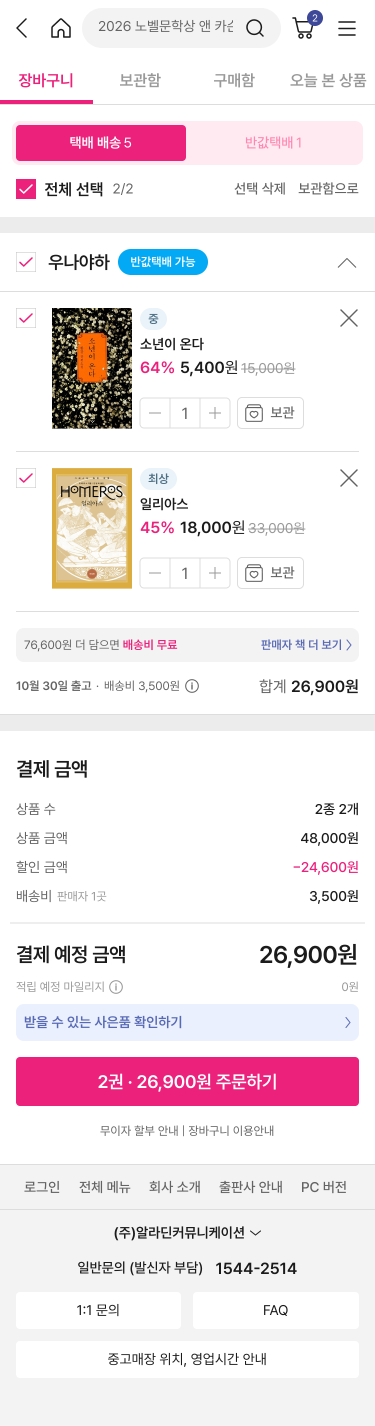
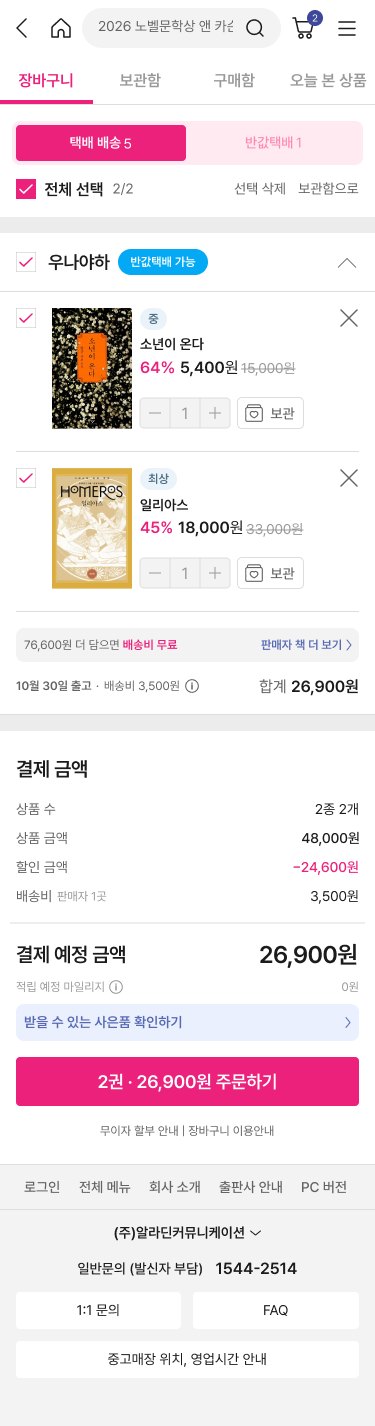
docs: 장바구니 수량을 1로 고정한 리디자인 반영

diff --git a/data.js b/data.js
@@ -275,7 +275,7 @@ const SCREENS = [
   },
   {
     id: "SC-CRT-01", key: "crt", name: "장바구니 · 선택 상품 주문", short: "장바구니",
-    img: "assets/sc-crt.png", w: 375, h: 1426, source: "6091:9045",
+    img: "assets/sc-crt.png", w: 375, h: 1426, source: "6777:8532",
     summary: "담은 상품을 판매자별로 확인하고, 결제 예정 26,900원으로 주문",
     entry: ["장바구니 버튼", "가격 비교·상세의 담기 완료 알림"],
     flow: [
@@ -298,9 +298,10 @@ const SCREENS = [
               fail: ["0개 선택 → “상품을 선택해 주세요” + 주문 버튼을 누를 수 없음"] }] },
       { n: "02", name: "판매자별 상품·수량", fns: ["F-CRT-02"], boxes: [[5, 230, 365, 487]],
         role: "판매자별로 담은 상품과 수량·배송비를 확인하는 영역",
-        show: ["판매자별 묶음", "품질 등급·판매가·수량 조절·배송 조건·합계"],
-        act: ["같은 판매자 상품은 한 묶음 + 배송 조건 함께 표시", "수량 +/− 는 재고 안에서만 바뀜", "상품가·예상 배송비 다시 계산", "재고보다 많은 수량은 적용 안 함"],
-        memo: ["판매자 합계 = 상품 가격 + 배송비", "예) 우나야하: 5,400 + 18,000 + 3,500 = 26,900원", "‘76,600원 더 담으면 배송비 무료’ = 100,000원 기준 (100,000 − 23,400)"],
+        show: ["판매자별 묶음", "품질 등급·판매가·수량·배송 조건·합계", "수량 +/− 는 회색 (누를 수 없음)"],
+        act: ["같은 판매자 상품은 한 묶음 + 배송 조건 함께 표시", "수량은 1로 고정"],
+        memo: ["수량 +/− 를 회색(비활성)으로 바꿈 → 수량 1 고정", "판매자 합계 = 상품 가격 + 배송비", "예) 우나야하: 5,400 + 18,000 + 3,500 = 26,900원", "‘76,600원 더 담으면 배송비 무료’ = 100,000원 기준 (100,000 − 23,400)"],
+        planned: ["수량 +/− 는 재고 안에서만 바뀜", "상품가·예상 배송비 다시 계산", "재고보다 많은 수량은 적용 안 함"],
         p: [{ id: "F-CRT-02", name: "수량 바꾸기",
               when: "수량 +/− 를 누를 때",
               rule: ["판매자별 묶음 유지", "수량이 재고 안인지 확인한 뒤 합계 다시 계산"],
@@ -390,7 +391,8 @@ const LOG = [
   ["2026.11.07", ["가격 비교 보관 아이콘(눌린 모양 + 보관 완료 알림)을 동작하지 않는 것으로 정정 → ‘장바구니·보관·주문’ 기능은 동작하지 않음", "카드 안 보관 아이콘도 ‘장바구니’·‘주문하기’처럼 눌러도 아무 일 없음으로 정리", "전체 흐름 보기의 ‘보관’ 보조 흐름과 시연하기의 보관 아이콘 누를 수 있는 영역 삭제"]],
   ["2026.11.07", ["상품 상세 리뷰 아래 ‘공감 (N)’ 숫자 표시를 없앤 디자인 수정 반영 → ‘댓글 (N)’만 표시, 공감 버튼 누름(눌린 모양)은 그대로", "‘동작하지 않음’의 ‘공감 숫자 바뀌기’는 숫자 표시가 없어져 삭제"]],
   ["2026.11.07", ["상품 상세 화면 캡처를 수정본(5443:10002)으로 교체하고, 높이 3141→3139에 맞춰 요소 박스·시연 영역 위치 조정"]],
-  ["2026.11.07", ["상품 상세 화면 캡처를 리디자인(6777:8531)으로 교체: 카드 최대 혜택가·‘혜택 자세히’, 카드/간편결제 할인·무이자 할부, 배송 유의사항, 품질 등급 전체 보기, 도서별 가격 비교 표가 빠짐 (구현 범위에서 제외)", "빠진 요소의 기획 내용은 회색 ‘원래 기획한 기능’ 칸으로 옮기고, 높이 3139→2803에 맞춰 요소 박스·시연 영역 위치 조정"]]
+  ["2026.11.07", ["상품 상세 화면 캡처를 리디자인(6777:8531)으로 교체: 카드 최대 혜택가·‘혜택 자세히’, 카드/간편결제 할인·무이자 할부, 배송 유의사항, 품질 등급 전체 보기, 도서별 가격 비교 표가 빠짐 (구현 범위에서 제외)", "빠진 요소의 기획 내용은 회색 ‘원래 기획한 기능’ 칸으로 옮기고, 높이 3139→2803에 맞춰 요소 박스·시연 영역 위치 조정"]],
+  ["2026.11.07", ["장바구니 화면 캡처를 리디자인(6777:8532)으로 교체: 수량 +/− 가 회색(비활성)으로 바뀌어 수량 1 고정", "수량을 바꾸는 기획 내용은 회색 ‘원래 기획한 기능’ 칸으로 옮김"]]
 ];
 
 // 요소별 동작 여부 (피그마 프로토타입 연결 + 디자인 메모의 위아래 고정 기준, 2026.11.05 확인)
@@ -420,7 +422,7 @@ const IMPL = {
   "SC-DET-01/05": { works: ["‘공감’ 누름 → 눌린 모양", "ⓘ 누름 → 설명 말풍선, 바깥 누름 → 닫힘"], noop: ["다시 눌러 공감 취소", "‘Thanks to’ 눌러 적립 혜택 주기 (눌린 모양만 바뀜)"] },
   "SC-DET-01/06": { works: ["‘장바구니’ 누름 → 담기 완료 알림 → ‘장바구니 보기’ → [장바구니] 페이지로 이동", "구매 바가 화면 맨 아래에 붙어 있음"], noop: ["‘주문하기’ 눌러 주문 (눌린 모양만 바뀜)"] },
   "SC-CRT-01/01": { works: ["스크롤해도 위쪽 탭·배송 방식·전체 선택 줄이 붙어 있음"], noop: ["체크박스·‘전체 선택’", "위쪽 탭 눌러 화면 바꾸기 (눌린 모양만 바뀜)"] },
-  "SC-CRT-01/02": { works: [], noop: ["‘반값택배 가능’ 누름", "수량 +/−"] },
+  "SC-CRT-01/02": { works: [], noop: ["‘반값택배 가능’ 누름", "수량 +/− (회색, 누를 수 없음)"] },
   "SC-CRT-01/03": { works: [], noop: ["선택 삭제", "보관함으로·상품별 보관"] },
   "SC-CRT-01/04": { works: ["본문 ‘결제 금액’이 보이면 아래 주문 바 숨김, 벗어나면 다시 보임"], noop: ["‘주문하기’ 눌러 주문 (눌린 모양만 바뀜)", "체크에 따라 금액 바뀌기"] },
 };
